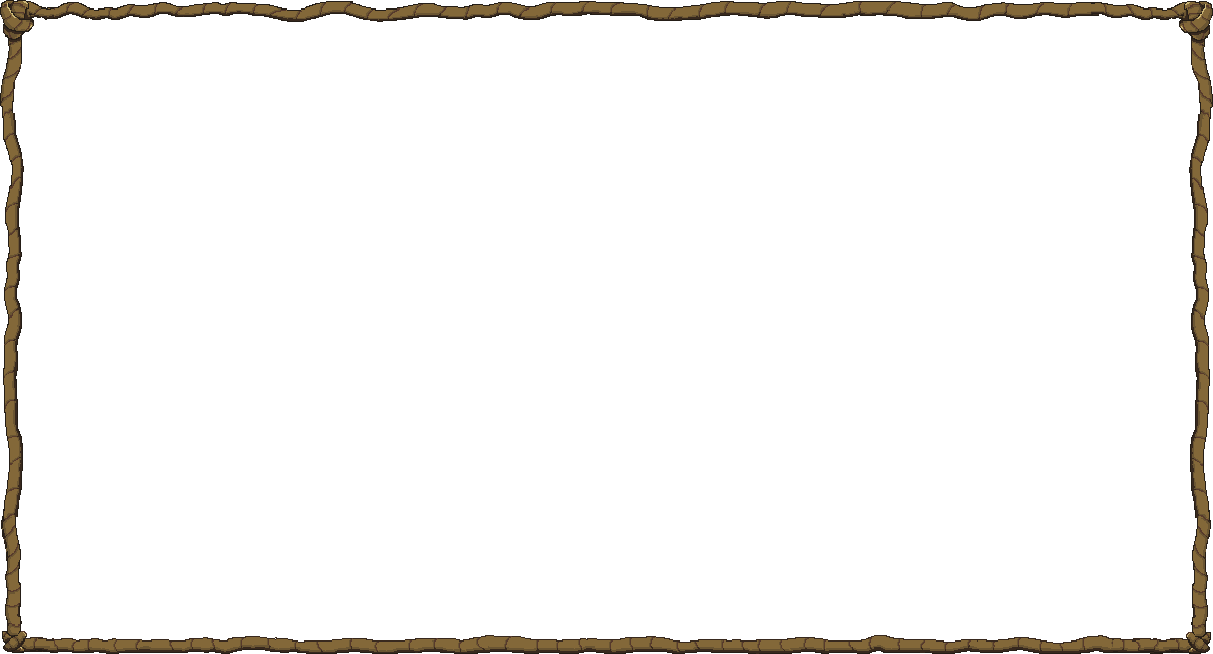
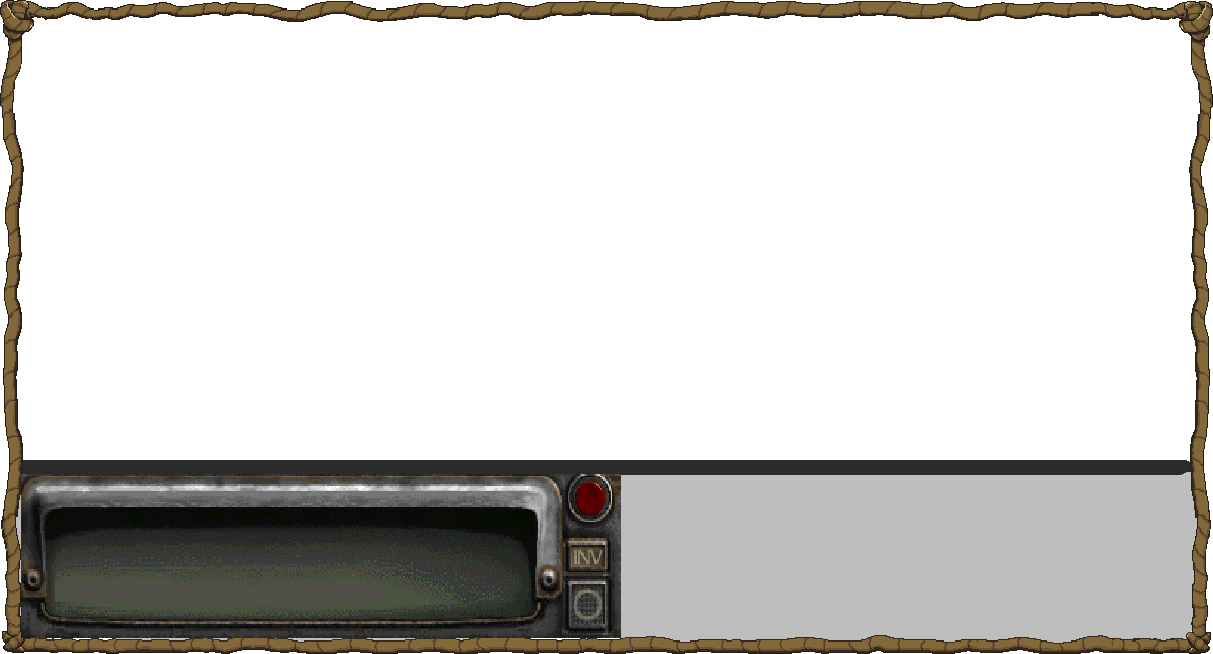
COMBAT

Changed region(s): [[0.0, 0.7034, 1.0, 1.0]]

diff --git a/src/game/BattleState.java b/src/game/BattleState.java
@@ -1,21 +1,44 @@
 package game;
 
+import java.util.Random;
+
 import org.newdawn.slick.*;
 import org.newdawn.slick.state.BasicGameState;
 import org.newdawn.slick.state.StateBasedGame;
 
 public class BattleState extends game.BasicGameState implements KeyListener {
 	static Image combatBorder;
+	Image backdrop;
+	BattleMenu battMenu;
+
+	String[] log = { "", "", "", "", "" };
+
 	private StateBasedGame psbg;
-	
 
 	// ***********************************************************
 	// ***********************************************************
 	// INIT INIT INIT INIT INIT INIT INIT
 	// ***********************************************************
+
+	public void addCombatText(String text) {
+		for (int i = log.length - 1; i >= 0; i--) {
+			System.out.println(i);
+			if (i == log.length - 1) {
+				log[i] = null;
+			} else {
+				log[i + 1] = log[i];
+			}
+		}
+
+		log[0] = text;
+
+		for (int i = 0; i < log.length; i++) {
+			System.out.println("[" + log[i] + "]");
+		}
+		System.out.println("\n");
+	}
+
 	public void drawCombat(Graphics g) {
-		g.setColor(Color.black);
-		g.fillRect(45, 45, 1190, 630);
 
 		g.setColor(Color.white);
 		g.setFont(StateGame.f_32);
@@ -27,35 +50,18 @@ public class BattleState extends game.BasicGameState implements KeyListener {
 
 		StateGame.currentEnemy.draw(g, 965, 50);
 
-		g.setColor(Color.white);
-		g.fillRect(65, 500, 1150, 170);
-
 	}
 
 	@Override
 	public void keyReleased(int arg0, char arg1) {
-		switch (arg0) {
-		case KeyboardControls.left_bind:
-			System.out.println("Left");
-			break;
-		case KeyboardControls.right_bind:
-			System.out.println("right");
-			break;
-		case KeyboardControls.up_bind:
-			System.out.println("up");
-			break;
-		case KeyboardControls.down_bind:
-			System.out.println("down");
-			break;
-		case KeyboardControls.action_bind:
-			psbg.enterState(0);
-			break;
-		}
+		battMenu.keyPressed(arg0, this);
 	}
 
 	@Override
 	public void init(GameContainer arg0, StateBasedGame arg1) throws SlickException {
+		battMenu = new BattleMenu(100, 509);
 		combatBorder = new Image("gfx\\ropeborder_combat.png");
+		backdrop = new Image("gfx\\enviros\\dback.png");
 		psbg = arg1;
 	}
 
@@ -64,12 +70,59 @@ public class BattleState extends game.BasicGameState implements KeyListener {
 
 	@Override
 	public void render(GameContainer arg0, StateBasedGame arg1, Graphics g) throws SlickException {
+		backdrop.draw(36, 36);
 		drawCombat(g);
+		battMenu.draw(g);
+		g.setColor(Color.green);
+		for (int i = log.length - 1; i >= 0; i--) {
+			g.drawString(log[i], 670, 640 - i * 32);
+
+		}
 
 	}
 
 	@Override
 	public void update(GameContainer arg0, StateBasedGame arg1, int arg2) throws SlickException {
+
+	}
+
+	@Override
+	public void actionPerformed(int action) {
+		switch (action) {
+		case 1:
+			addCombatText("item used");
+			break;
+		case 0:
+			Random r = new Random();
+			int low_bound = ((StateGame.mike.STR + StateGame.mike.weaponDamage) - StateGame.currentEnemy.AGI / 2) / 4;
+			int high_bound = ((StateGame.mike.STR + StateGame.mike.weaponDamage) - StateGame.currentEnemy.AGI / 2) / 2;
+
+			int dmgTotal = 0;
+			if (high_bound - low_bound >= 0) {
+
+				// DAMAGE
+				dmgTotal = ((r.nextInt(high_bound - low_bound) + low_bound)) + 1;
+			}
+
+			System.out.println("Damage roll: ");
+			addCombatText("Player deals " + dmgTotal + " (low: " + low_bound + " | high: " + high_bound);
+			StateGame.currentEnemy.hit(dmgTotal);
+
+			low_bound = (StateGame.currentEnemy.STR - StateGame.mike.AGI / 2) / 4;
+			high_bound = (StateGame.currentEnemy.STR - StateGame.mike.AGI / 2) / 2;
+
+			int dmgTotal2 = 0;
+			if (high_bound - low_bound >= 0) {
+				dmgTotal2 = ((r.nextInt(high_bound - low_bound) + low_bound)) + 1;
+			}
+
+			addCombatText("Enemy deals " + dmgTotal2 + " (low: " + low_bound + " | high: " + high_bound);
+
+			StateGame.mike.hit(dmgTotal2);
+
+			break;
+
+		}
 
 	}
 

diff --git a/src/game/Enemy.java b/src/game/Enemy.java
@@ -13,24 +13,37 @@ public class Enemy {
 	Image portrait;
 	String name;
 	HorzBarGraph healthBar;
-	int hp = 5;
-	int maxhp = 5;
+	int currentHP;
+
+	int STR = 40;
+	int AGI = 30;
+	int HP = 30;
+	int LK = 0;
 
 	public Enemy(int id) throws SlickException {
+
 		portrait = new Image("gfx\\enemysprites\\" + id + ".png");
-		healthBar = new HorzBarGraph(200, 32, 2, StateGame.f_16);
-		healthBar.set_label("HP: " + hp + " / " + maxhp);
-		healthBar.set_percent(5, 5);
 
 		Scanner reader;
 		try {
 			reader = new Scanner(new File("G_DATA\\enemy\\" + id + ".txt"));
 			name = reader.nextLine();
+			STR = reader.nextInt();
+			AGI = reader.nextInt();
+			HP = reader.nextInt();
+
+			System.out.println("I'm a  " + name + " i have " + STR + " strength, and " + AGI + " agiligty and " + HP + " health.");
 
 			reader.close();
 		} catch (FileNotFoundException e) {
 			e.printStackTrace();
 		}
+
+		currentHP = HP;
+		healthBar = new HorzBarGraph(200, 32, 2, StateGame.f_16);
+		healthBar.set_label("HP: " + currentHP + " / " + HP);
+		healthBar.set_percent(currentHP, HP);
+
 	}
 
 	public void draw(Graphics g, int x, int y) {
@@ -40,6 +53,19 @@ public class Enemy {
 		portrait.draw(x, y);
 		g.drawString(name, x, y + portrait.getHeight() + 40);
 		healthBar.draw(g, x, y + portrait.getHeight() + 90, Color.red);
+
+	}
+
+	public void hit(int dmgTotal) {
+		currentHP -= dmgTotal;
+		if (currentHP >= 1) {
+			healthBar.set_label("HP: " + currentHP + " / " + HP);
+			healthBar.set_percent(currentHP, HP);
+		} else {
+			healthBar.set_label("HP: " + currentHP + " / " + HP);
+			healthBar.set_percent(0, HP);
+			System.out.println("ENEMY IS DEAD YOU WIN BOSSMAN");
+		}
 
 	}
 

diff --git a/src/game/Player.java b/src/game/Player.java
@@ -12,17 +12,26 @@ import org.newdawn.slick.state.transition.FadeOutTransition;
 import org.newdawn.slick.state.transition.Transition;
 
 public class Player extends OverworldEntity {
-	int hp = 5;
-	int maxhp = 5;
+	
 	Image combat_portrait;
 	HorzBarGraph healthBar;
+
+	int LEVEL = 10;
+	int STR = 35;
+	int AGI = 31;
+	int HP = 54;
+	int currentHP = HP;
+	int LK = 0;
+	
+	int weaponDamage = 2;
+	
 
 	public Player(float x, float y, StateGame s) throws SlickException, FileNotFoundException {
 		super("mike", x, y, s);
 		this.combat_portrait = new Image("gfx\\enemysprites\\mike.png");
 		healthBar = new HorzBarGraph(200, 32, 2, StateGame.f_16);
-		healthBar.set_label("HP: " + hp + " / " + maxhp);
-		healthBar.set_percent(5, 5);
+		healthBar.set_label("HP: " + currentHP + " / " + HP);
+		healthBar.set_percent(currentHP, HP);
 
 	}
 
@@ -49,6 +58,19 @@ public class Player extends OverworldEntity {
 
 		x = tx;
 		y = ty;
+
+	}
+	
+	public void hit(int dmgTotal) {
+		currentHP -= dmgTotal;
+		if (currentHP >= 1) {
+			healthBar.set_label("HP: " + currentHP + " / " + HP);
+			healthBar.set_percent(currentHP, HP);
+		} else {
+			healthBar.set_label("HP: " + currentHP + " / " + HP);
+			healthBar.set_percent(0, HP);
+			System.out.println("YOU IS DEAD ENEMY WIN BOSSMAN");
+		}
 
 	}
 

diff --git a/src/game/StateGame.java b/src/game/StateGame.java
@@ -205,7 +205,7 @@ public class StateGame extends game.BasicGameState implements KeyListener {
 		textBorder = new Image("gfx\\ropeborder.png");
 		cursorSprite = new Image("gfx\\cursor.png");
 		currentPortraitBack = new Image("gfx\\porback_desert.png");
-		currentEnemy = new Enemy(1);
+		currentEnemy = new Enemy(0);
 		overworldMenu = new Menu(32, 32);
 		currentMenu = overworldMenu;
 
@@ -328,7 +328,6 @@ public class StateGame extends game.BasicGameState implements KeyListener {
 			return;
 		}
 		System.out.println(String.format("%d %c", arg0, arg1));
-
 		keys.addElement(arg0);
 	}
 
@@ -345,7 +344,6 @@ public class StateGame extends game.BasicGameState implements KeyListener {
 			if (StateGame.mike.action()) {
 				currentMenu = overworldMenu;
 			}
-			// startBattle();
 			break;
 		}
 	}
@@ -361,6 +359,9 @@ public class StateGame extends game.BasicGameState implements KeyListener {
 		switch (action) {
 		case 0:
 			currentMenu = null;
+			break;
+		case 1:
+			startBattle();
 			break;
 		case 3:
 			this.gc.exit();

diff --git a/src/game/BattleMenu.java b/src/game/BattleMenu.java
@@ -1,0 +1,29 @@
+package game;
+
+import org.newdawn.slick.Color;
+import org.newdawn.slick.Graphics;
+import org.newdawn.slick.Image;
+import org.newdawn.slick.state.BasicGameState;
+
+public class BattleMenu extends Menu {
+
+	public BattleMenu(int x, int y) {
+		super(x, y);
+		this.items = new String[] {"Attack","Items","Special","Run"};
+		this.sizey = 32 + items.length * 32;
+		this.sizex = 200;
+	}
+	
+	public void draw(Graphics g) {
+
+		g.setColor(Color.white);
+		int i = 0;
+		for (String a : items) {
+			g.setFont(StateGame.f_24);
+			g.drawString(a, x + 64, y + 16 + i++ * 32);
+		}
+		StateGame.cursorSprite.draw(x + 20, y + 14 + selection * 32);
+
+	}
+	
+}

diff --git a/src/game/Menu.java b/src/game/Menu.java
@@ -17,7 +17,7 @@ public class Menu {
 		this.x = x;
 		this.y = y;
 
-		items = new String[] { "Resume", "Inventory", "Options", "Quit" };
+		items = new String[] { "Resume", "Inventory", "Options", "Quit"};
 		this.sizey = 32 + items.length * 32;
 		this.sizex = 200;
 
@@ -52,9 +52,10 @@ public class Menu {
 		g.setColor(Color.white);
 		g.setLineWidth(4);
 		g.drawRect(x, y, sizex, sizey);
-
+		
 		int i = 0;
 		for (String a : items) {
+			g.setFont(StateGame.f_24);
 			g.drawString(a, x + 64, y + 16 + i++ * 32);
 		}
 
